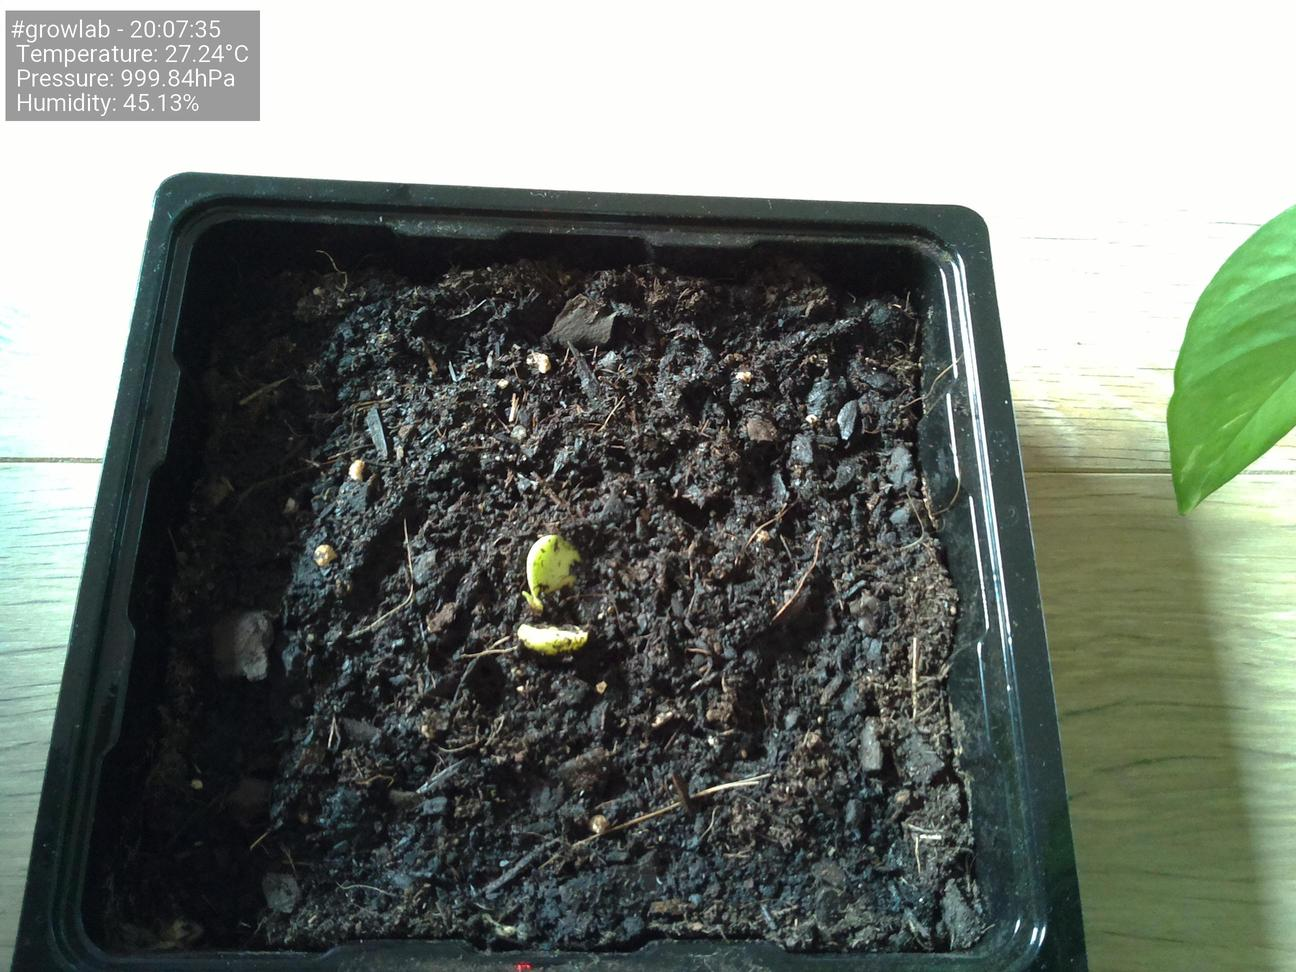
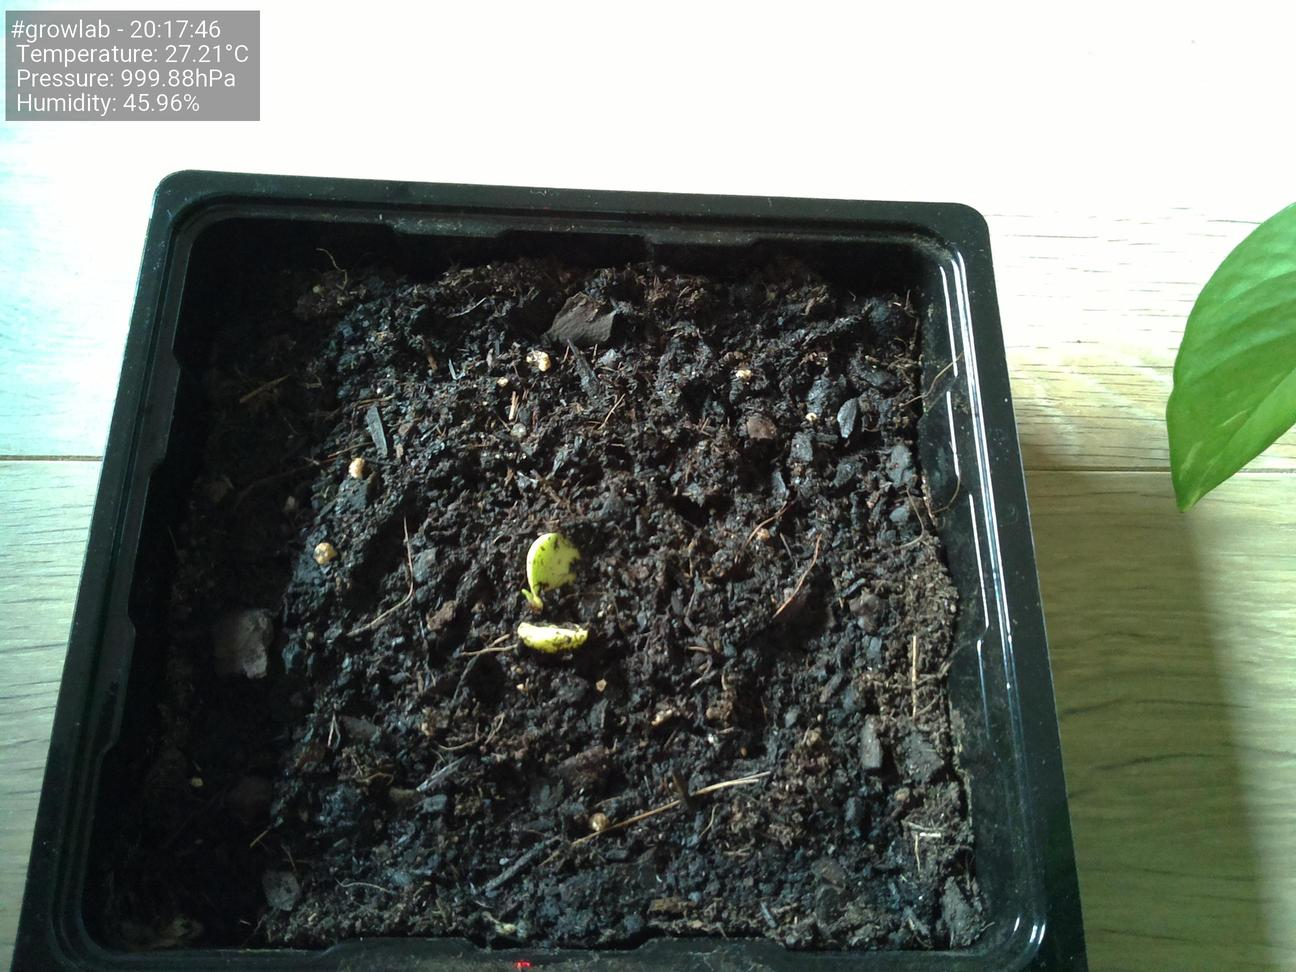
Update images at Sat 12 Jun 20:17:51 CEST 2021

diff --git a/docs/index.html b/docs/index.html
@@ -47,19 +47,19 @@
                         <tbody>
                             <tr>
                                 <td>Time</td>
-                                <td>20:07:35</td>
+                                <td>20:17:46</td>
                             </tr>
                             <tr>
                                 <td>Temperature</td>
-                                <td>27.24°C</td>
+                                <td>27.21°C</td>
                             </tr>
                             <tr>
                                 <td>Humidity</td>
-                                <td>45.13%</td>
+                                <td>45.96%</td>
                             </tr>
                             <tr>
                                 <td>Pressure</td>
-                                <td>999.84hPa</td>
+                                <td>999.88hPa</td>
                             </tr>
                         </tbody>
                     </table>
@@ -67,7 +67,7 @@
 
                 <h5>Latest image</h5>
                 <div style="width: 85%;">
-                            <img class="figure-img img-fluid rounded" src="./preview.jpg?uid=1623521259.8067791">
+                            <img class="figure-img img-fluid rounded" src="./preview.jpg?uid=1623521870.954164">
                 </div>
             </div>
         </div>
